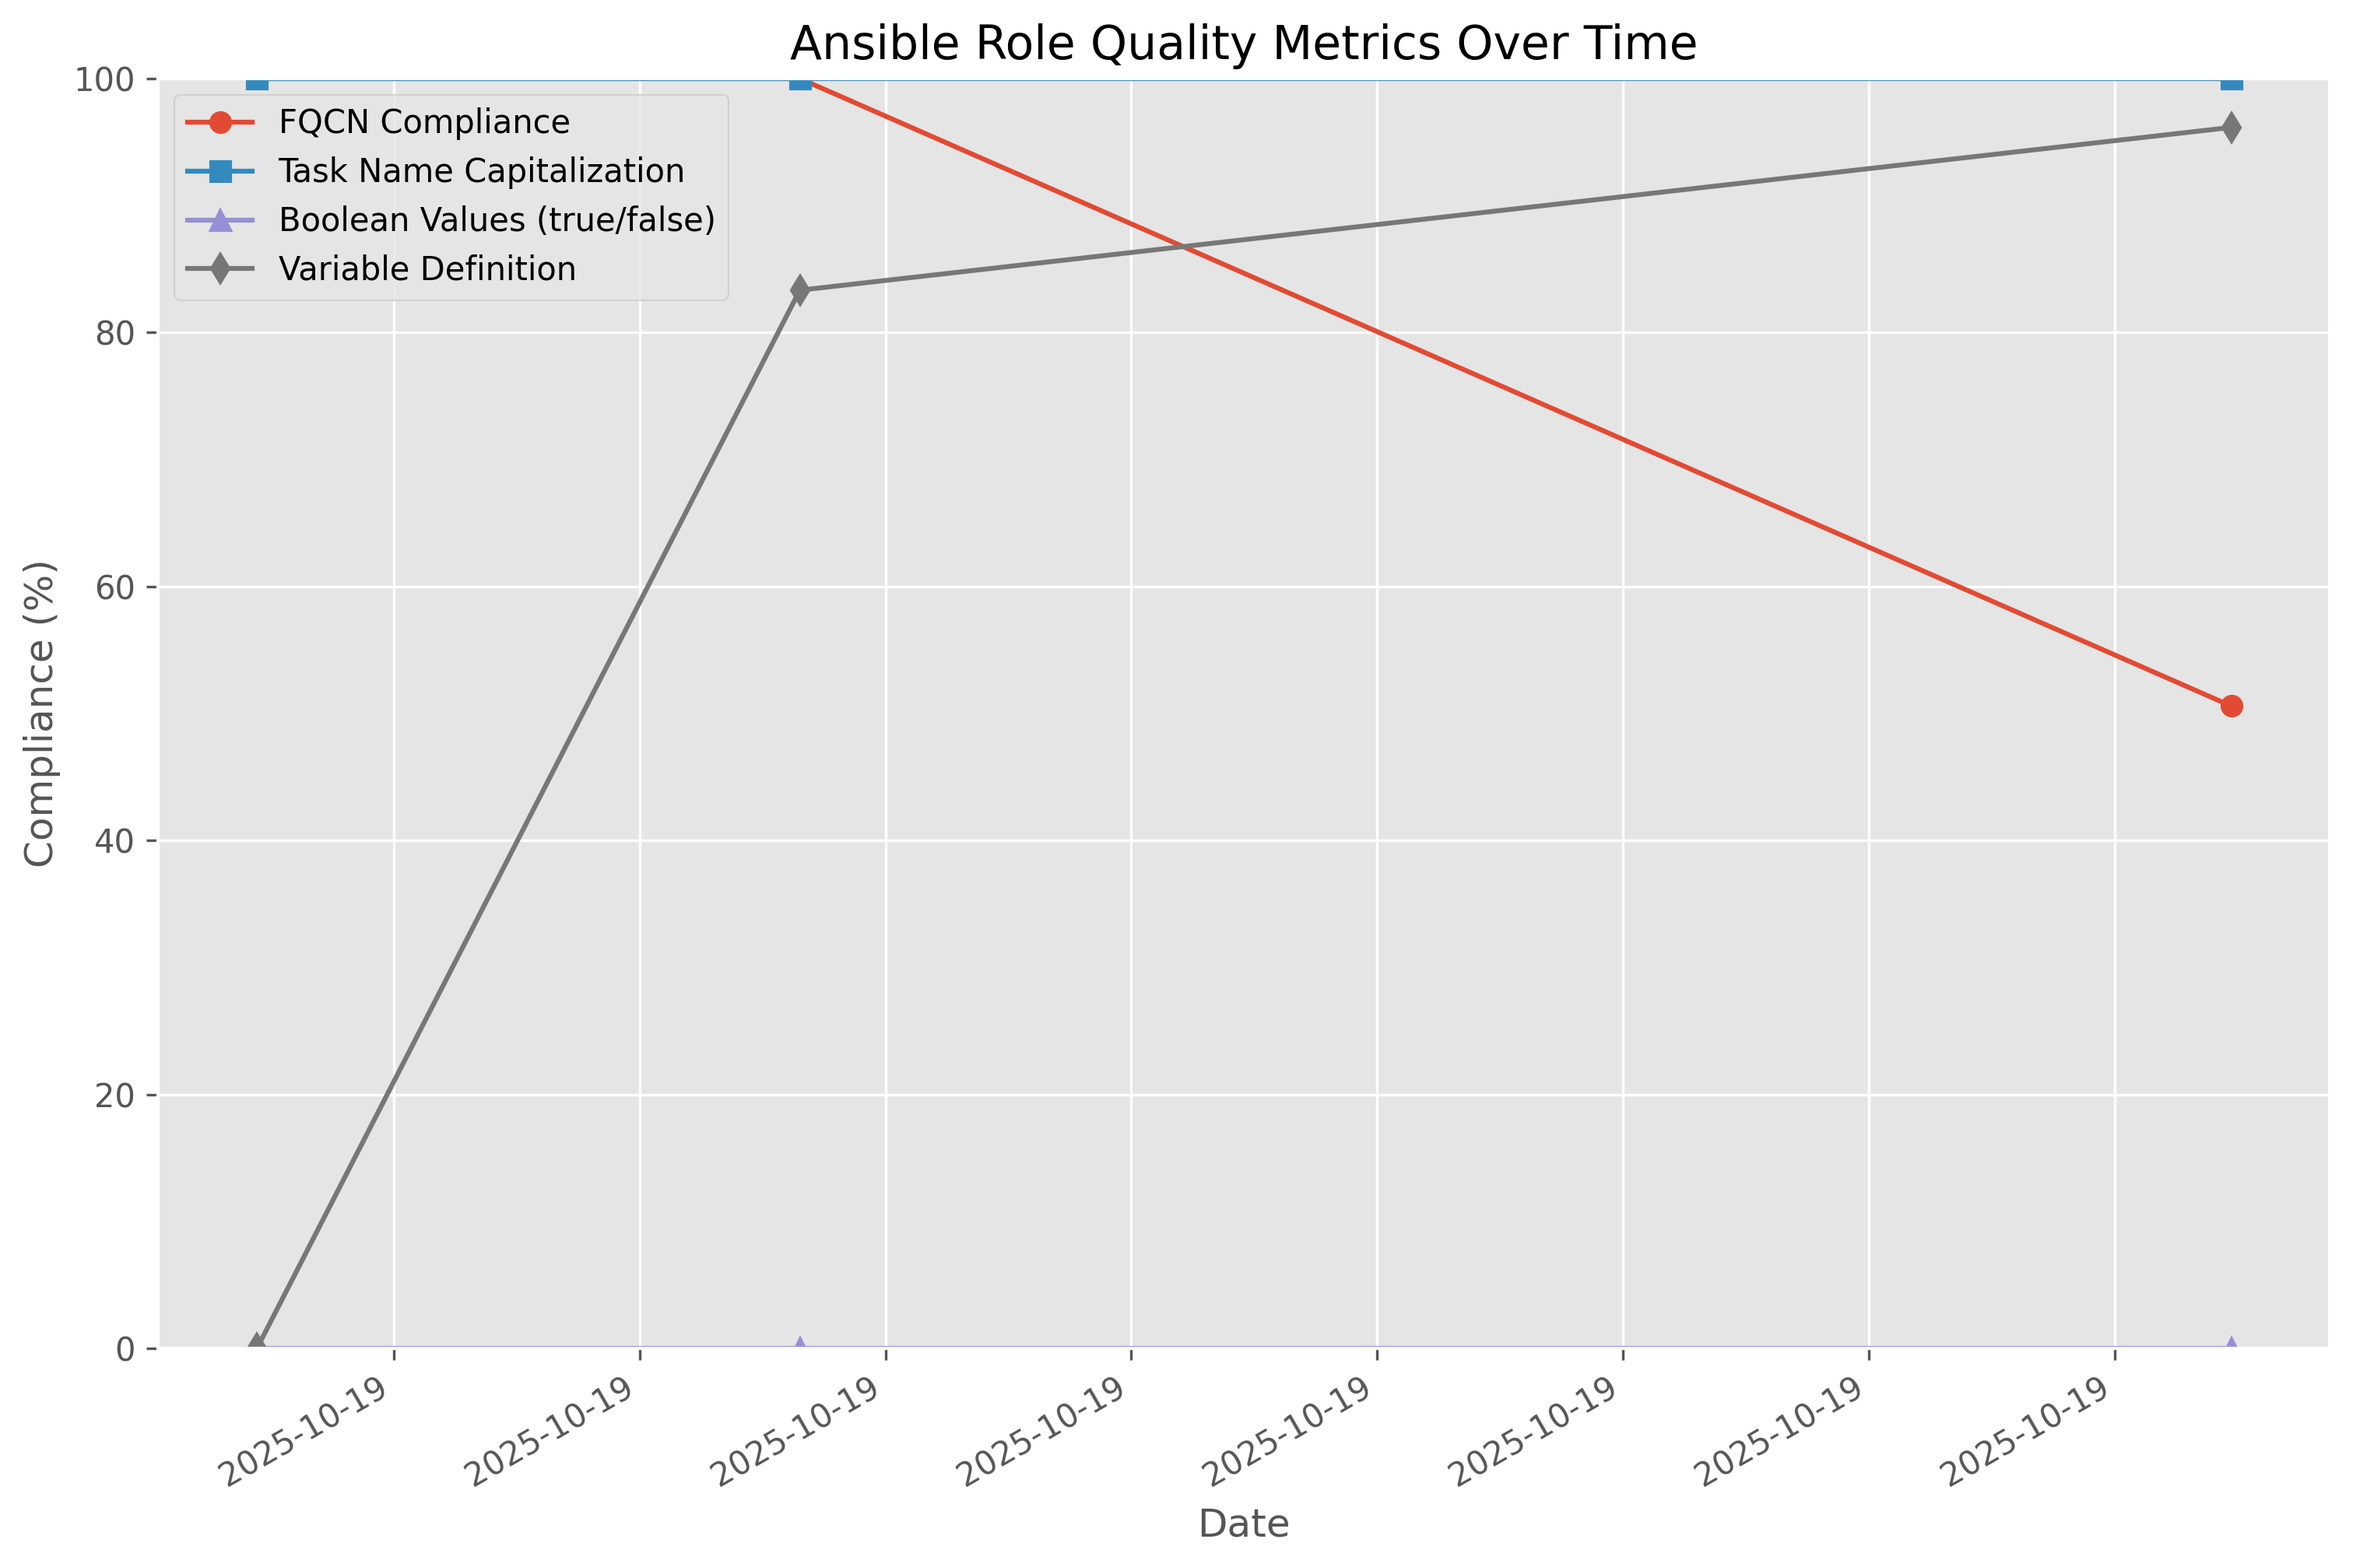
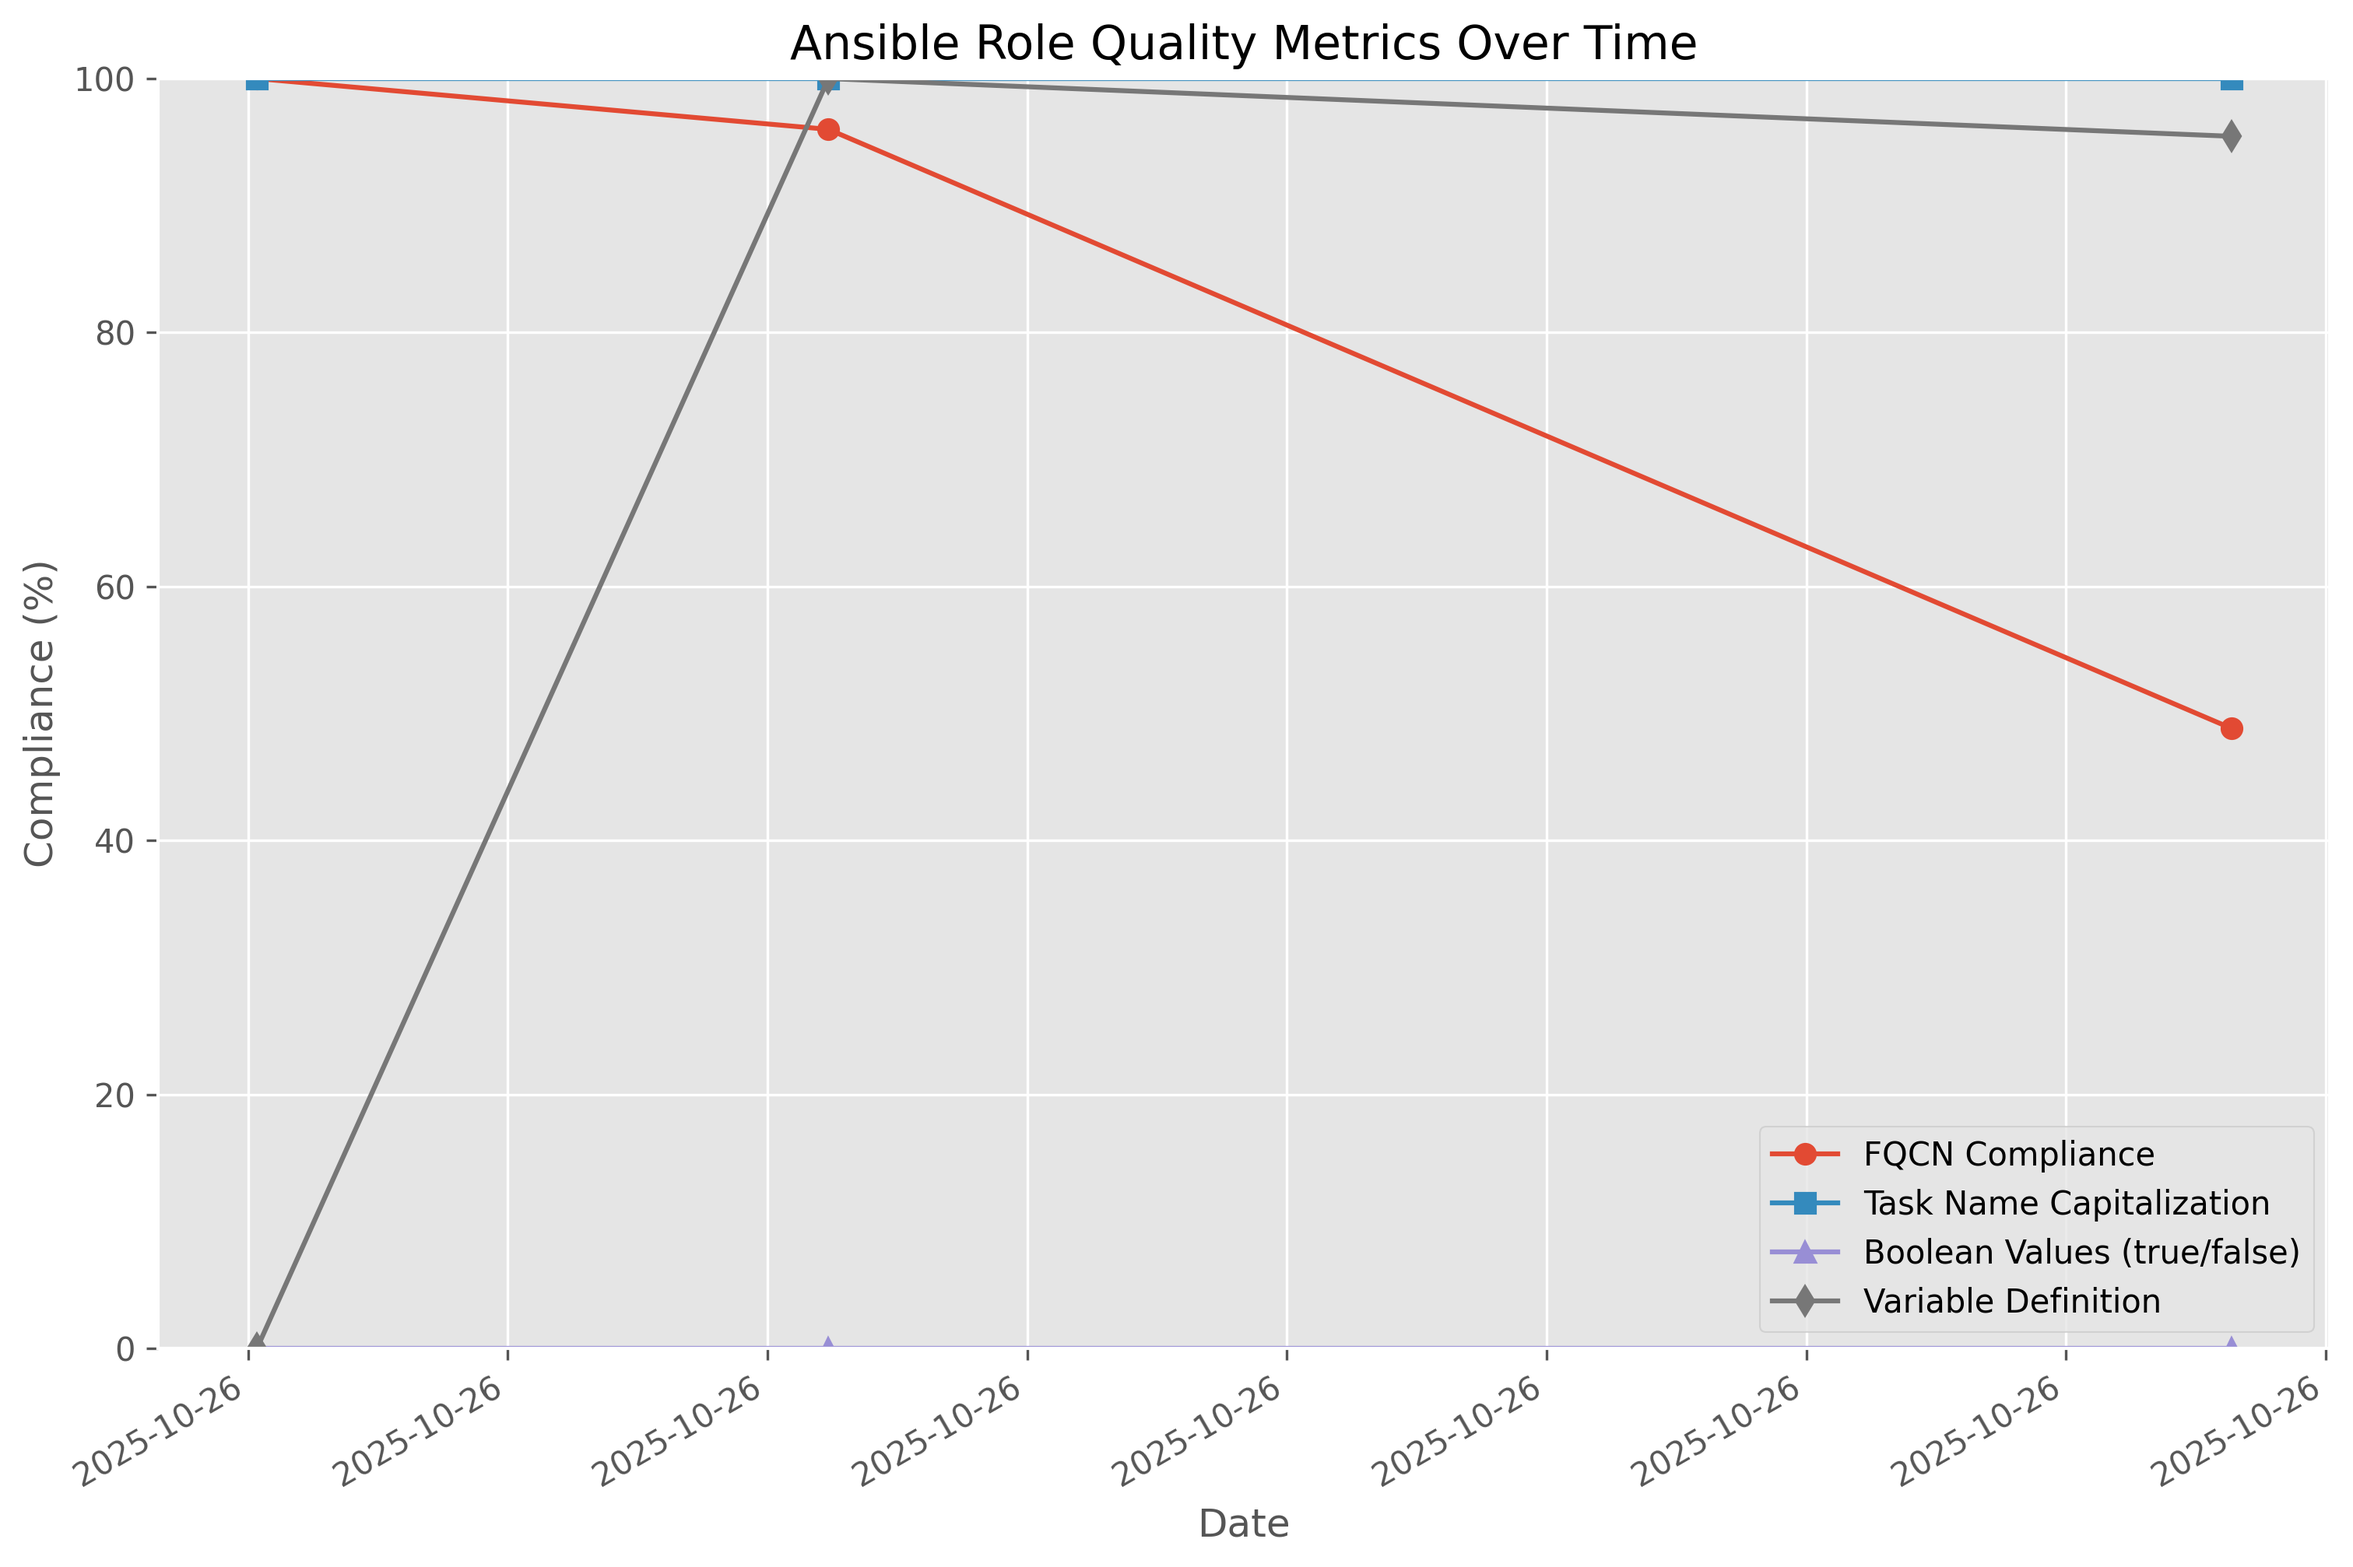
Update metrics (automated) 86381e575e3cb567ae7d61f2b827ec3665fe9a28

diff --git a/metrics/metrics_summary.md b/metrics/metrics_summary.md
@@ -1,15 +1,15 @@
 # Chef to Ansible Conversion Metrics
 
-Last updated: 2025-10-19 00:29:16
+Last updated: 2025-10-26 00:28:24
 
 ## Latest Compliance Metrics
 
 | Metric | Value |
 |--------|-------|
-| FQCN Compliance (%) | 50.59% |
+| FQCN Compliance (%) | 48.84% |
 | Task Name Capitalization (%) | 100.00% |
 | Boolean Values (true/false) (%) | 0.00% |
-| Variable Definition (%) | 96.15% |
+| Variable Definition (%) | 95.45% |
 
 ## Compliance Metrics Over Time
 
